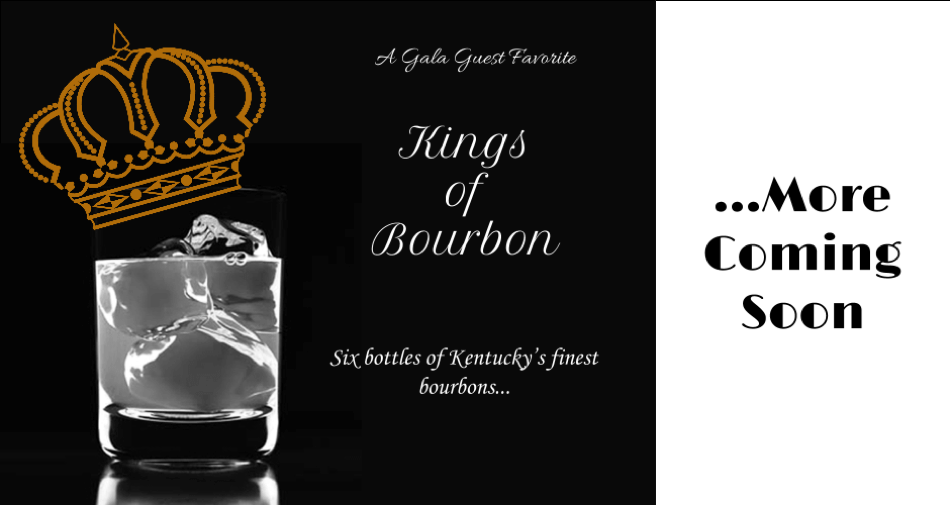
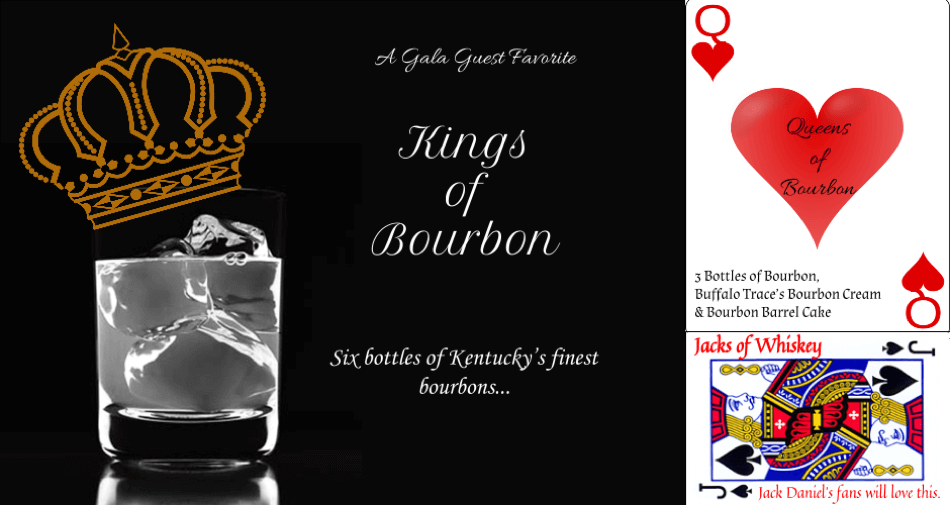
Fixed some nav issues, added gala slides.

Changed region(s): [[0.6716, 0.0, 1.0, 1.0], [0.9768, 0.0, 1.0, 0.0297]]

diff --git a/gala.html b/gala.html
@@ -103,6 +103,12 @@
 
       <div class="row">
         <div class="col-sm-2"></div>
+        <div class="col-sm-8 gala-head"><img src="images/gala-uk-fan.png" alt="" class="img-responsive"></div>
+        <div class="col-sm-2"></div>
+      </div>
+
+      <div class="row">
+        <div class="col-sm-2"></div>
         <div class="col-sm-8 gala-head"><img src="images/gala-mccarron.png" alt="" class="img-responsive"></div>
         <div class="col-sm-2"></div>
       </div>
@@ -126,7 +132,31 @@
 
       <div class="row">
         <div class="col-sm-2"></div>
+        <div class="col-sm-8 gala-head"><img src="images/gala-pharoah.png" alt="" class="img-responsive"></div>
+        <div class="col-sm-2"></div>
+      </div>
+
+      <div class="row">
+        <div class="col-sm-2"></div>
+        <div class="col-sm-8 gala-head"><img src="images/gala-home.png" alt="" class="img-responsive"></div>
+        <div class="col-sm-2"></div>
+      </div>
+
+      <div class="row">
+        <div class="col-sm-2"></div>
+        <div class="col-sm-8 gala-head"><img src="images/gala-adele.png" alt="" class="img-responsive"></div>
+        <div class="col-sm-2"></div>
+      </div>
+
+      <div class="row">
+        <div class="col-sm-2"></div>
         <div class="col-sm-8 gala-head"><img src="images/gala-kings-bourbon.png" alt="" class="img-responsive"></div>
+        <div class="col-sm-2"></div>
+      </div>
+
+      <div class="row">
+        <div class="col-sm-2"></div>
+        <div class="col-sm-8 gala-head"><img src="images/gala-plus.png" alt="" class="img-responsive"></div>
         <div class="col-sm-2"></div>
       </div>
 

diff --git a/css/custom-gala.css b/css/custom-gala.css
@@ -114,6 +114,12 @@ body {
 	border-bottom: 5px solid #880011;
 }
 
+.navbar-default .navbar-nav > li > a:hover {
+    color: #333;
+    background-color: transparent;
+    border-bottom: 5px solid #880011;
+}
+
 ul.navbar-right>li {
 	margin-right: 10px;
 	margin-top: 35px;

diff --git a/css/custom.css b/css/custom.css
@@ -91,7 +91,7 @@ a.navbar-brand {
 
 ul.navbar-right>li {
 	margin-right: 10px;
-	margin-top: 5px;
+	margin-top: 35px;
 }
 
 .li-separator {
